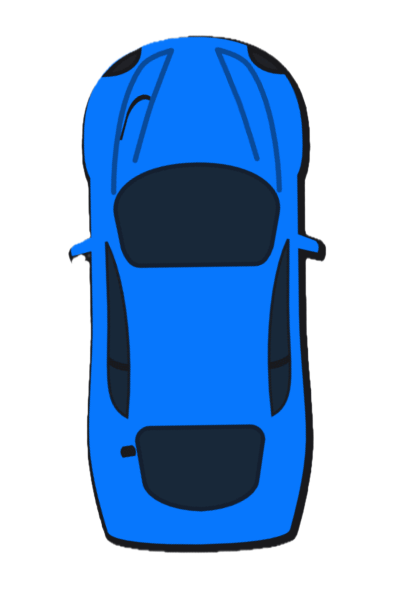
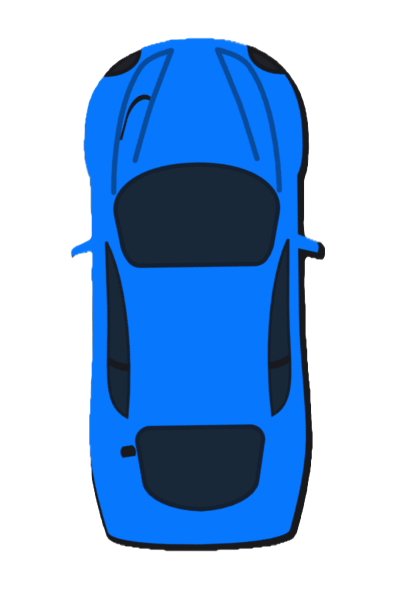
Added traffic

diff --git a/car.js b/car.js
@@ -1,5 +1,5 @@
 class Car{
-    constructor(x,y,width,height){
+    constructor(x,y,width,height, controlType){
         this.x = x;
         this.y = y;
         this.width = width;
@@ -11,25 +11,34 @@ class Car{
         this.maxSpeed = 3;
         this.friction = 0.05
         this.angle = 0;
+        if(controlType != "DUMMY"){
         this.sensor = new Sensor(this);// sensor is added
-        this.controls = new Controls();
+        }
+        this.controls = new Controls(controlType);
         this.damaged = false;
         // visuals
         this.img = new Image();
         this.img.src = "car.png";
     }
-    update(roadBorders){
+    update(roadBorders,traffic){
         if(!this.damaged){
         this.#move();
         this.polygon = this.#createPolygon();
-        this.damaged = this.#assessDamage(roadBorders);
+        this.damaged = this.#assessDamage(roadBorders,traffic);
         }
-        this.sensor.update(roadBorders);
+        if(this.sensor){
+            this.sensor.update(roadBorders,traffic);
+        }
     }
 
-    #assessDamage(roadBorders){
+    #assessDamage(roadBorders,traffic){
         for(let i = 0; i<roadBorders.length;i++){
             if(polysIntersect(this.polygon,roadBorders[i])){
+                return true;
+            }
+        }
+         for(let i = 0; i<traffic.length;i++){
+            if(polysIntersect(this.polygon,traffic[i].polygon)){
                 return true;
             }
         }
@@ -83,7 +92,7 @@ class Car{
             this.speed= this.maxSpeed;
         }
         if(this.speed<-this.maxSpeed/2){
-            this.speed =- this.maxSpeed/2;
+            this.speed = -this.maxSpeed/2;
         }
         // steering
         if(this.speed!==0){
@@ -124,7 +133,7 @@ class Car{
         );
     }
          ctx.restore();        // restore canva state
-         this.sensor.draw(ctx);
+         if(this.sensor)this.sensor.draw(ctx);
     }
 
 }

diff --git a/sensor.js b/sensor.js
@@ -10,18 +10,18 @@ class Sensor{
     
     }
 
-    update(roadBorders){
+    update(roadBorders, traffic){
         this.#castRays();
         this.readings=[];
         for(let i = 0; i<this.rays.length;i++){
             this.readings.push(
-                this.#getReading(this.rays[i],roadBorders)
+                this.#getReading(this.rays[i],roadBorders, traffic)
             );
         }
     }
 
     // Important code - to get readings
-    #getReading(ray, roadBorders){
+    #getReading(ray, roadBorders, traffic){
         let touches = [];
         for (let i = 0; i < roadBorders.length; i++) {
             const touch = getIntersection(
@@ -37,6 +37,21 @@ class Sensor{
         }
 
         }
+        for(let i = 0; i<traffic.length; i++){
+            const poly = traffic[i].polygon;
+            for(let j = 0; j<poly.length;j++){
+                const touch = getIntersection(
+                    ray[0],
+                    ray[1],
+                    poly[j],
+                    poly[(j+1)%poly.length]
+                );
+                if(touch){
+                    touches.push(touch);
+                }
+            }
+        }
+
         if (touches.length == 0){
             return null;
         }
@@ -82,7 +97,8 @@ class Sensor{
                 end.y
             );
             ctx.stroke();
-        
+            
+            
             // showing ray after collison
             ctx.beginPath();
             ctx.lineWidth =2;

diff --git a/main.js b/main.js
@@ -3,16 +3,24 @@ const canvas = document.getElementById("myCanvas");
 canvas.width = 200;
 const ctx = canvas.getContext("2d")
 const road = new Road(canvas.width/2,canvas.width*0.9);
-const car = new Car(100,100,30,50);
-
+const car = new Car(road.getLaneCenter(1),100,30,50,"KEYS");
+const traffic = [
+    new Car(road.getLaneCenter(1),-100,30,50,"DUMMY"),
+];
 animate();
 function animate(){
-    car.update(road.borders);
+    for(let i = 0;i<traffic.length; i++){
+        traffic[i].update(road.borders,[]);
+    }
+    car.update(road.borders,traffic);
     canvas.height = window.innerHeight;
     ctx.save();
     ctx.translate(0,-car.y+canvas.height*0.7);
     road.draw(ctx);
-    car.draw(ctx);
+    for(let i = 0; i<traffic.length; i++){
+        traffic[i].draw(ctx);
+    }
+     car.draw(ctx);
     ctx.restore();
     requestAnimationFrame(animate);
 }

diff --git a/road.js b/road.js
@@ -7,9 +7,9 @@ class Road{
         this.left = x-width/2;
         this.right = x+width/2;
 
-        const infintiy = 100000;
-        this.top = -infintiy;
-        this.bottom = infintiy;
+        const infinity = 100000;
+        this.top = -infinity;
+        this.bottom = infinity;
         const topLeft ={x:this.left,y:this.top};
         const topRight ={x:this.right,y:this.top};
         const bottomLeft ={x:this.left,y:this.bottom};
@@ -19,9 +19,13 @@ class Road{
             [topRight,bottomRight]
         ];
     }
-
+    getLaneCenter(laneIndex){
+        const laneWidth=this.width/this.laneCount;
+        return this.left+laneWidth/2+
+            Math.min(laneIndex,this.laneCount-1)*laneWidth;
+    }
     draw(ctx){
-        ctx.lineWidth =5;
+        ctx.lineWidth = 5;
         ctx.strokeStyle="white";
 
         // lanecount using LinearInterpolation 

diff --git a/controls.js b/controls.js
@@ -1,10 +1,16 @@
 class Controls{
-    constructor(){
+    constructor(type){
         this.forward = false;
         this.left = false;
         this.right = false;
         this.reverse = false;
-        this.#addKeyboardListeners();
+        switch(type){
+            case "KEYS":
+                this.#addKeyboardListeners();
+                break;
+            case "DUMMY":
+                break;
+        }
     }
     #addKeyboardListeners(){
         document.onkeydown=(event)=>{